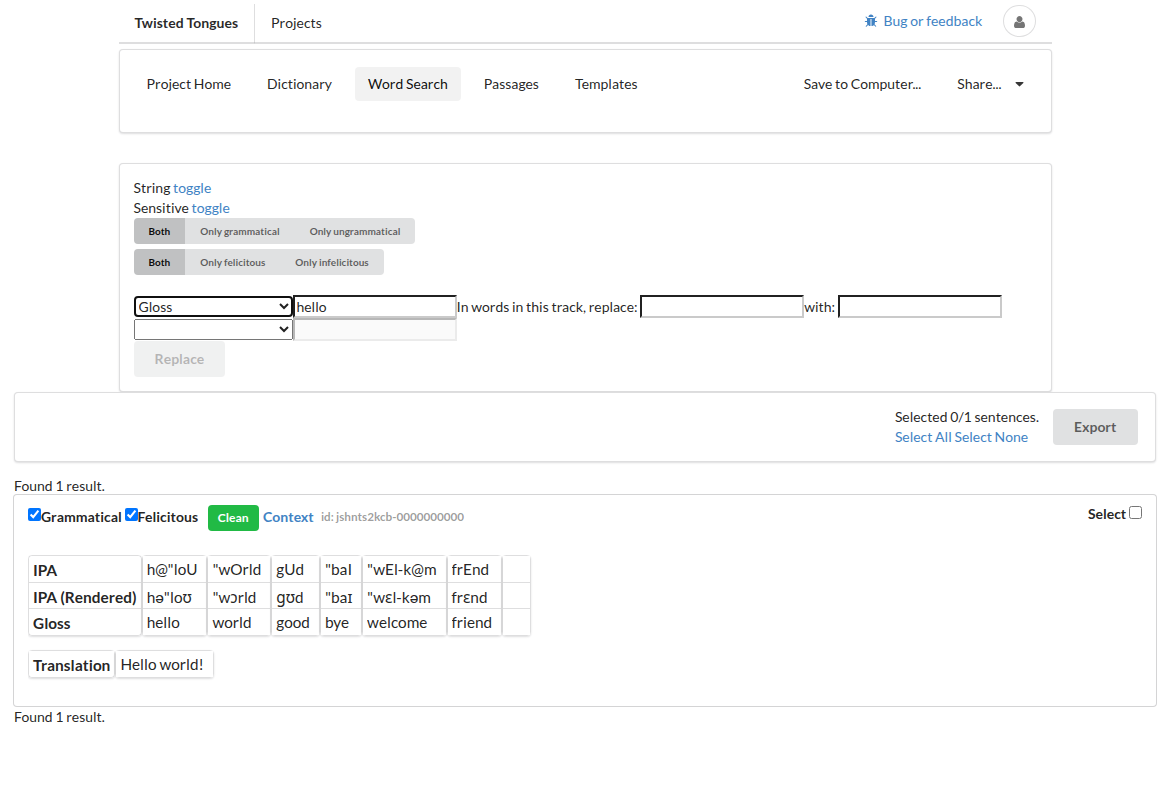
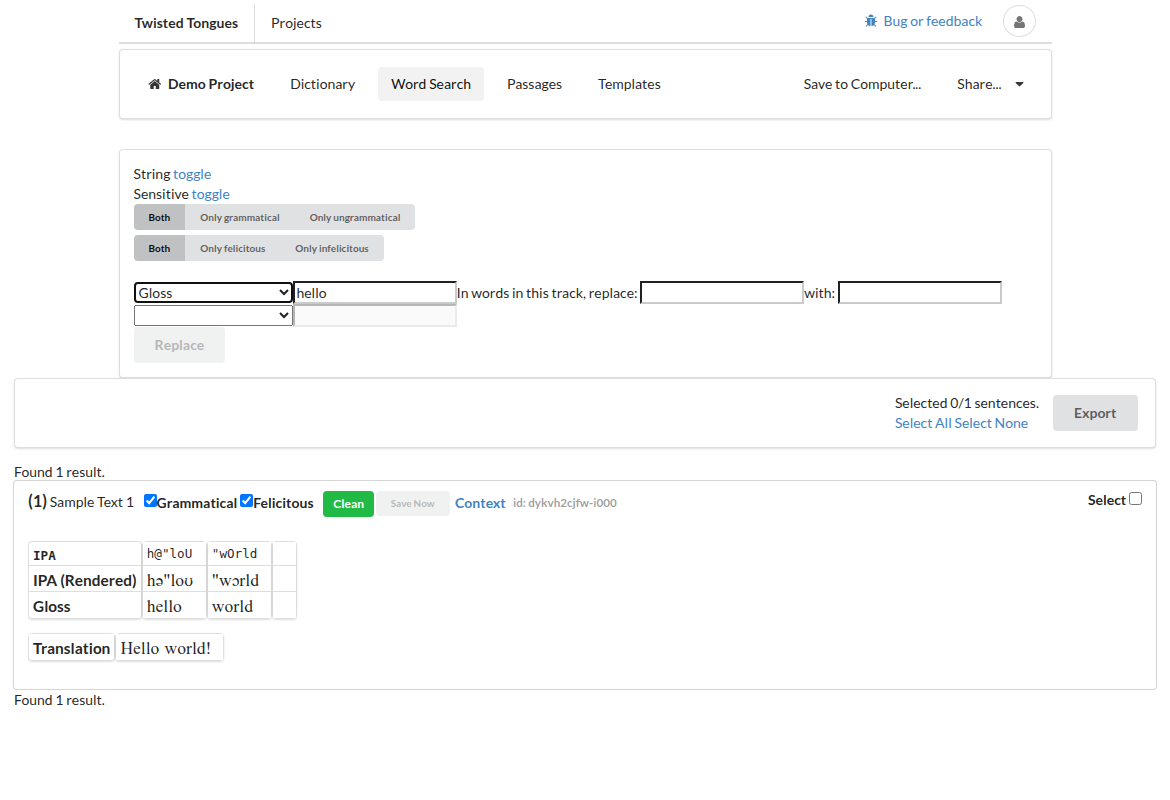
Refresh the manual's figures, and document the sentence row's menu
All 25 figures regenerated against 20261024.2. The passage screen now shows
each sentence's line number and permanent id, one "More..." menu where three
buttons used to be, and the passage's description under its name. The first
nav tab names the project rather than reading "Project Home", which the
shipped figures never caught up with.

The dictionary figure reports six matches rather than two: the spec that
generates these had been typing all three demo sentences' words into the
first sentence (fixed in twisted-tongues-v2#217), so the manual was showing
a third of its own example data.

Section 4.2 gains the row menu -- Insert new above, Duplicate here,
Duplicate at end, Delete -- plus what a line number and an id each promise,
and what a reader following a Context link to a deleted sentence is told.
Both languages.

diff --git a/src/manual.fr.md b/src/manual.fr.md
@@ -87,7 +87,7 @@ Les passages peuvent être découpés de la manière qui paraît la plus pertine
 
 ### 4.1 Créer un passage {#4.1-creating-a-passage}
 
-Pour créer un passage, allez dans l'onglet « Passages » et cliquez sur « Add Passage » (ajouter un passage). Nommez le passage et décrivez-le. Si vous le souhaitez, les métadonnées du passage peuvent être conservées dans la description (« Description »). Il est recommandé, lors de la création d'un passage, de choisir un *modèle* de pistes défini au préalable (voir section 3), qui sera présent dans chaque phrase de ce passage. Pour choisir un modèle, sélectionnez-le dans le menu déroulant « Tracks from template » (pistes issues d'un modèle) (figure 11). L'utilisateur peut aussi sélectionner « None » (aucun) dans le menu déroulant et personnaliser les pistes ajoutées pour ce passage précis. Après un clic sur « Submit », le passage est créé et ajouté à la liste des passages dans l'onglet « Passages » (figure 12). La ligne de chaque passage se termine par un bouton de menu (⋮). « Rename… » (renommer) y modifie le nom et la description du passage, et « Delete… » (supprimer) supprime le passage, après vous avoir demandé de confirmer que vous souhaitez le supprimer définitivement (figure 13). Les lecteurs ne voient pas ce menu.
+Pour créer un passage, allez dans l'onglet « Passages » et cliquez sur « Add Passage » (ajouter un passage). Nommez le passage et décrivez-le. Si vous le souhaitez, les métadonnées du passage peuvent être conservées dans la description (« Description »), qui s'affiche sous le nom du passage lorsque celui-ci est ouvert, ainsi que dans la liste des passages. Il est recommandé, lors de la création d'un passage, de choisir un *modèle* de pistes défini au préalable (voir section 3), qui sera présent dans chaque phrase de ce passage. Pour choisir un modèle, sélectionnez-le dans le menu déroulant « Tracks from template » (pistes issues d'un modèle) (figure 11). L'utilisateur peut aussi sélectionner « None » (aucun) dans le menu déroulant et personnaliser les pistes ajoutées pour ce passage précis. Après un clic sur « Submit », le passage est créé et ajouté à la liste des passages dans l'onglet « Passages » (figure 12). La ligne de chaque passage se termine par un bouton de menu (⋮). « Rename… » (renommer) y modifie le nom et la description du passage, et « Delete… » (supprimer) supprime le passage, après vous avoir demandé de confirmer que vous souhaitez le supprimer définitivement (figure 13). Les lecteurs ne voient pas ce menu.
 
 Figure 11\. Ajouter un passage et sélectionner un modèle.  
 ![](images/figure_011_add_passage_and_select_template.png)
@@ -101,6 +101,12 @@ Figure 13\. Supprimer un passage.
 ### 4.2 Saisir des données dans un passage {#4.2-entering-data-into-a-passage}
 
 Dans l'onglet « Passages », cliquez sur un passage pour en consulter et en modifier les données. Si aucune donnée n'a encore été saisie pour le passage sélectionné, celui-ci est vide. Pour ajouter des phrases à remplir, cliquez sur « Add sentence » (ajouter une phrase). Si un modèle a été choisi pour le passage, les pistes associées apparaissent à l'ajout d'une phrase. Il suffit alors de taper pour saisir les données de la phrase. Chaque nouvelle phrase ajoutée est par défaut marquée comme grammaticale (« Grammatical »), avec une case cochée dans le coin supérieur gauche de l'énoncé. Pour marquer une phrase comme agrammaticale, décochez la case. Chaque phrase est de même marquée par défaut comme appropriée (« Felicitous ») ; pour marquer une phrase comme pragmatiquement inappropriée, décochez cette case (voir la section 5.1.3 pour l'effet de ces marquages sur la recherche et l'export). Dès que des données sont ajoutées à une phrase (figure 14), le bouton vert « clean » (propre) devient un bouton jaune « dirty » (non sauvegardé), ce qui signifie que les données ajoutées ne sont pas encore enregistrées (figure 15). Avant de quitter la page, il vous sera proposé d'enregistrer toutes les données nouvellement saisies. En cas de conflit — plusieurs utilisateurs tentant de modifier la même phrase simultanément, ou un même utilisateur essayant d'enregistrer deux versions de la même phrase avant que la page n'ait sauvegardé la première modification —, un bouton rouge « Conflict » (conflit) peut apparaître (figure 16). Dans ce cas, il suffit d'actualiser la page. Pour ajouter d'autres données, cliquez sur « Add sentence » et répétez la procédure ci-dessus.
+
+Les phrases sont numérotées sur la gauche du passage — (1), (2), (3) — et chaque ligne affiche également un identifiant permanent. Le numéro indique la position qu'occupe la phrase aujourd'hui et change dès qu'une phrase est ajoutée ou supprimée au-dessus d'elle ; l'identifiant, lui, ne change pas, ce qui permet à un lien « Context » (section 5.4) de continuer à désigner la même phrase.
+
+La ligne de chaque phrase porte un menu « More… » (plus) qui regroupe tout ce qui modifie la structure du passage plutôt que les données qu'il contient. « Insert new above » (insérer une nouvelle phrase au-dessus) place une phrase vide juste au-dessus de cette ligne, afin qu'un exemple élicité plus tard puisse figurer à sa place plutôt qu'à la fin du passage. « Duplicate here » (dupliquer ici) copie la phrase sur la ligne immédiatement en dessous, et « Duplicate at end » (dupliquer à la fin) la copie tout en bas ; l'un comme l'autre permet de constituer rapidement une série de variantes minimales. « Delete… » (supprimer) supprime la phrase, en vous demandant de confirmer dès qu'elle contient quelque chose. Une phrase comportant des modifications non enregistrées ne peut être ni copiée ni supprimée, et le menu l'indique au lieu de rester muet : enregistrez-la d'abord. Les lecteurs ne voient pas ce menu.
+
+Une phrase supprimée l'est définitivement, et l'identifiant qu'elle portait n'est jamais attribué à une autre phrase. Le passage ne garde aucune trace de ce qu'il a perdu — sauf pour un lecteur qui suit un lien « Context » vers une phrase supprimée depuis : celui-ci en est informé à l'endroit où elle se trouvait.
 
 Figure 14\. Ajouter une phrase, avant la saisie des données.  
 ![](images/figure_014_add_sentence_empty.png)

diff --git a/src/manual.md b/src/manual.md
@@ -87,7 +87,7 @@ Passages can be divided however the user decides makes the most sense for a give
 
 ### 4.1 Creating a passage {#4.1-creating-a-passage}
 
-To create a passage, go to the Passages tab, and click on “Add Passage”. Name the passage and describe it. If desired, passage metadata can be stored in the “Description”. It is recommended upon creating a passage to choose a previously defined *template* of tracks (see section 3), which will be present in each sentence in that passage. To choose a template, select one from the drop-down menu labelled “Tracks from template” (Figure 11). Alternatively, the user can select “None” in the drop-down menu and can customize the tracks added for the specific passage. Upon clicking “Submit”, the passage will be created and added to the list of passages in the Passages tab (Figure 12). Each passage's row ends in a menu button (⋮). “Rename…” there changes the passage's name and description, and “Delete…” removes the passage, after asking you to confirm that you would like to permanently delete it (Figure 13). Readers see no menu.
+To create a passage, go to the Passages tab, and click on “Add Passage”. Name the passage and describe it. If desired, passage metadata can be stored in the “Description”, which is shown under the passage's name whenever the passage is open, as well as in the list of passages. It is recommended upon creating a passage to choose a previously defined *template* of tracks (see section 3), which will be present in each sentence in that passage. To choose a template, select one from the drop-down menu labelled “Tracks from template” (Figure 11). Alternatively, the user can select “None” in the drop-down menu and can customize the tracks added for the specific passage. Upon clicking “Submit”, the passage will be created and added to the list of passages in the Passages tab (Figure 12). Each passage's row ends in a menu button (⋮). “Rename…” there changes the passage's name and description, and “Delete…” removes the passage, after asking you to confirm that you would like to permanently delete it (Figure 13). Readers see no menu.
 
 Figure 11\. Add passage and select template.  
 ![](images/figure_011_add_passage_and_select_template.png)
@@ -101,6 +101,12 @@ Figure 13\. Delete passage.
 ### 4.2 Entering data into a passage {#4.2-entering-data-into-a-passage}
 
 In the Passages tab, click a passage to view and edit the data in it. If no data has yet been entered for the selected passage, the passage will be empty. To add sentences to be filled in, click “Add sentence”. If a template has been selected for the passage, tracks associated with that passage will appear upon adding a sentence. One can then type to enter data into the sentence. Each new sentence added is by default marked as “Grammatical” with a checkmark in the upper left corner of the utterance. To mark a sentence as ungrammatical, un-check the box. Each sentence is likewise marked as “Felicitous” by default; to mark a sentence as pragmatically infelicitous, un-check that box (see section 5.1.3 for how both markings affect search and export). Upon adding data to a sentence (Figure 14), the green “clean” button will change to a yellow “dirty” button, meaning that the added data is unsaved (Figure 15). Before leaving the page, you will be prompted to save all newly entered data. If there are conflicts with multiple users attempting to edit the same sentence simultaneously (or if a single user tries to save two versions of the same sentence before the page has backed up the first change), a red “Conflict” button may appear (Figure 16). If this is the case, simply refresh the page. To add additional data, click “Add sentence”, and repeat the above process.
+
+Sentences are numbered down the left of the passage — (1), (2), (3) — and each row also shows a permanent id. The number says where a sentence sits today and changes whenever a sentence is added or removed above it; the id does not, which is what lets a Context link (section 5.4) keep pointing at the same sentence.
+
+Each sentence's row carries a “More…” menu holding everything that changes the shape of the passage rather than the data in it. “Insert new above” puts a new, empty sentence immediately above that row, so an example elicited later can go where it belongs instead of at the end of the passage. “Duplicate here” copies the sentence into the line below it and “Duplicate at end” copies it to the bottom — either is a quick way to build up a set of minimal variants. “Delete…” removes the sentence, asking you to confirm whenever there is anything typed in it. A sentence with unsaved changes cannot be copied or deleted, and the menu says so rather than going quiet: save it first. Readers see no menu.
+
+A deleted sentence is gone for good, and the id it held is never given to another sentence. The passage keeps no marker of what it has lost — except for a reader who follows a Context link to a sentence that has since been deleted, who is told so in the place it used to be.
 
 Figure 14\. Add sentence, before typing in the data.  
 ![](images/figure_014_add_sentence_empty.png)
